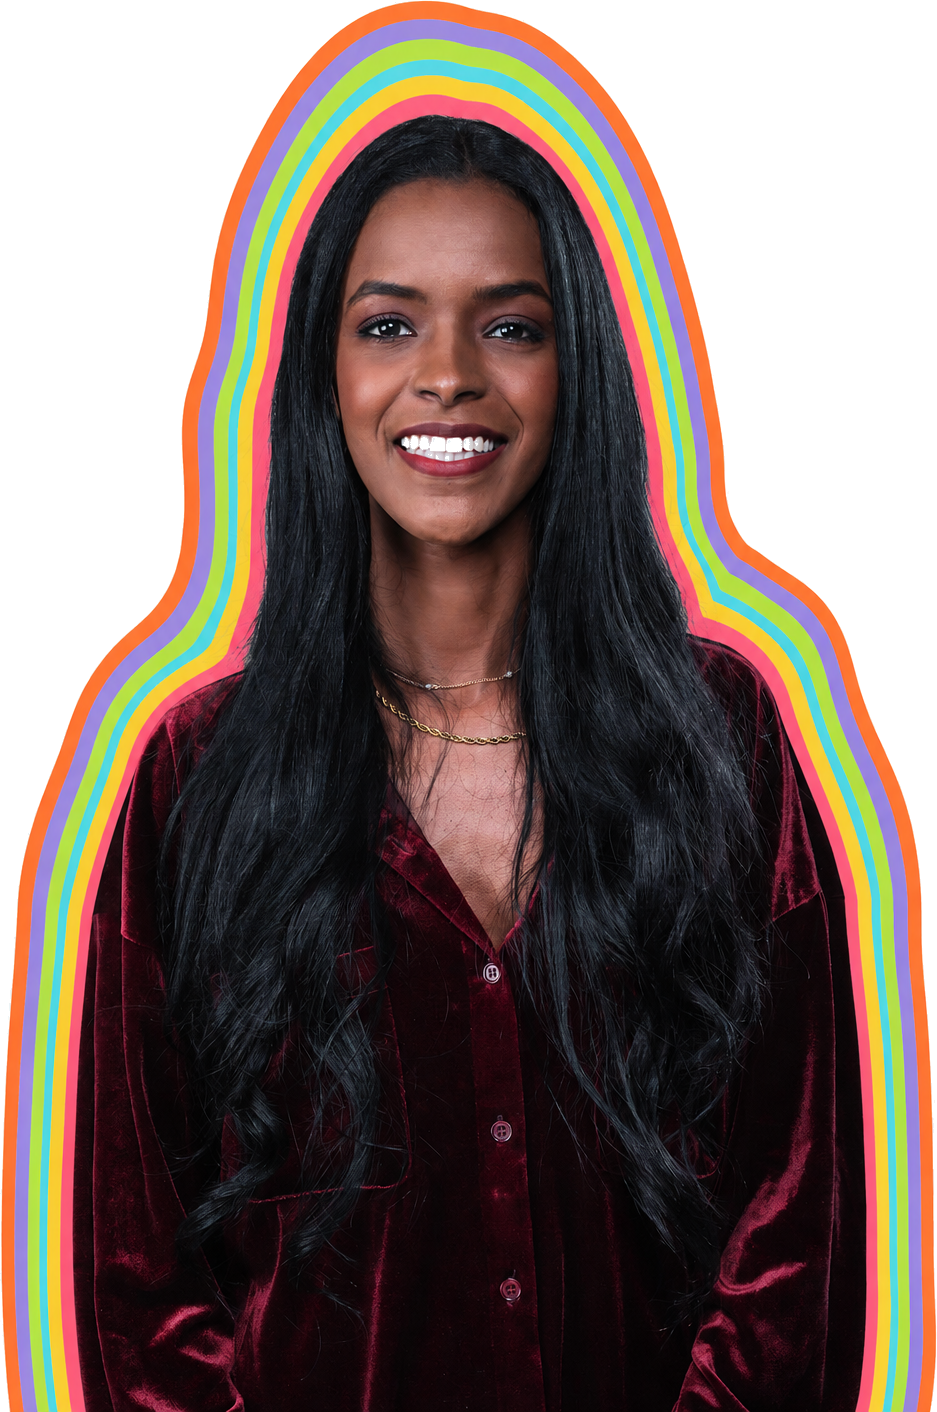
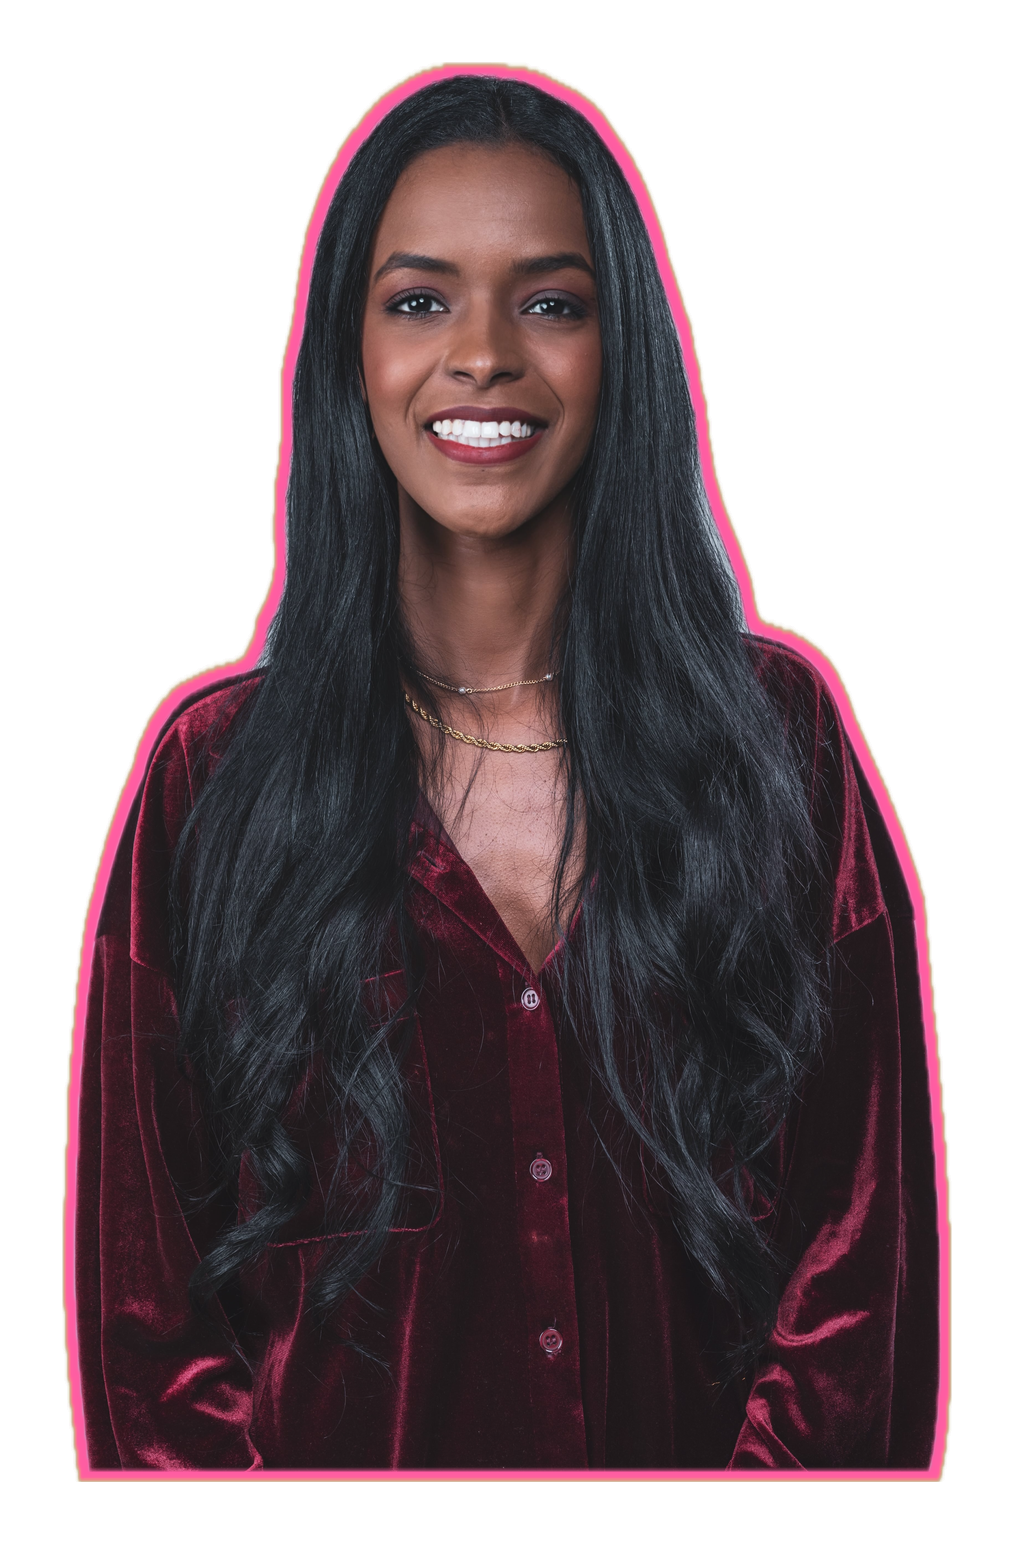
Preserve original headshot and clear hero overlays

diff --git a/src/styles/global.css b/src/styles/global.css
@@ -367,13 +367,19 @@ section {
   right: -1rem;
   bottom: -4rem;
   line-height: 0;
-  filter: drop-shadow(8px 8px 0 var(--black));
 }
 
 .home-hero-portrait img {
   width: 100%;
   height: auto;
   display: block;
+  filter:
+    drop-shadow(-7px 0 0 var(--pink))
+    drop-shadow(7px 0 0 var(--cyan))
+    drop-shadow(0 -7px 0 var(--yellow))
+    drop-shadow(0 7px 0 var(--lime))
+    drop-shadow(7px 7px 0 var(--purple))
+    drop-shadow(5px 5px 0 var(--black));
 }
 
 .home-hero-copy .hero-sub {
@@ -486,6 +492,13 @@ section {
   background: var(--purple);
   color: var(--cream);
   transform: rotate(-10deg);
+}
+
+/* These figures already appear in the stats row below. Keeping them out of
+   the desktop hero leaves the portrait and face completely unobstructed. */
+.sticker--2,
+.sticker--4 {
+  display: none;
 }
 
 @media (max-width: 900px) {
